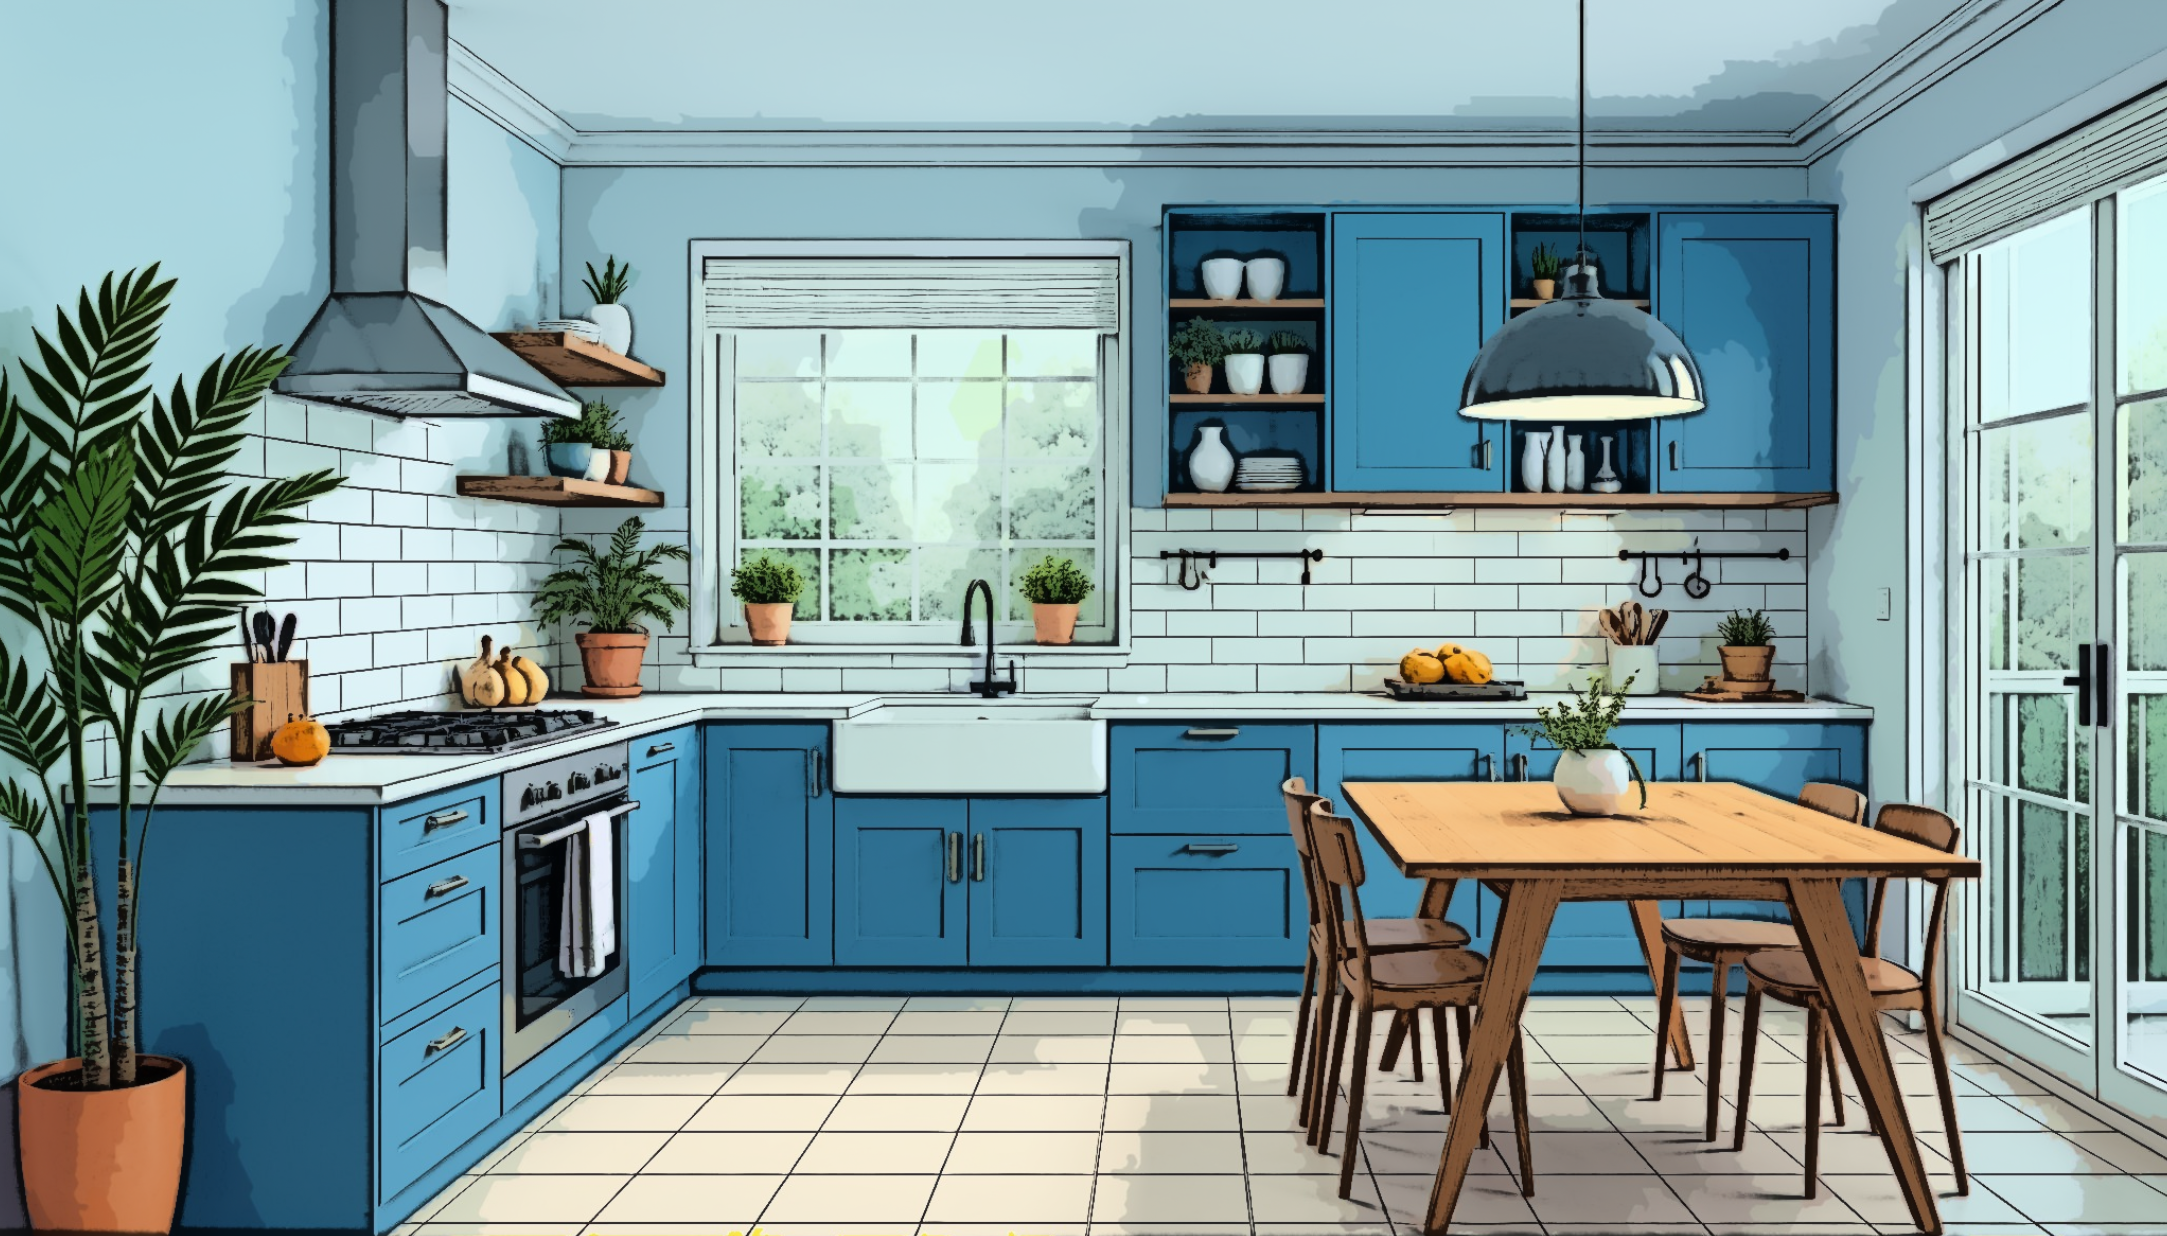
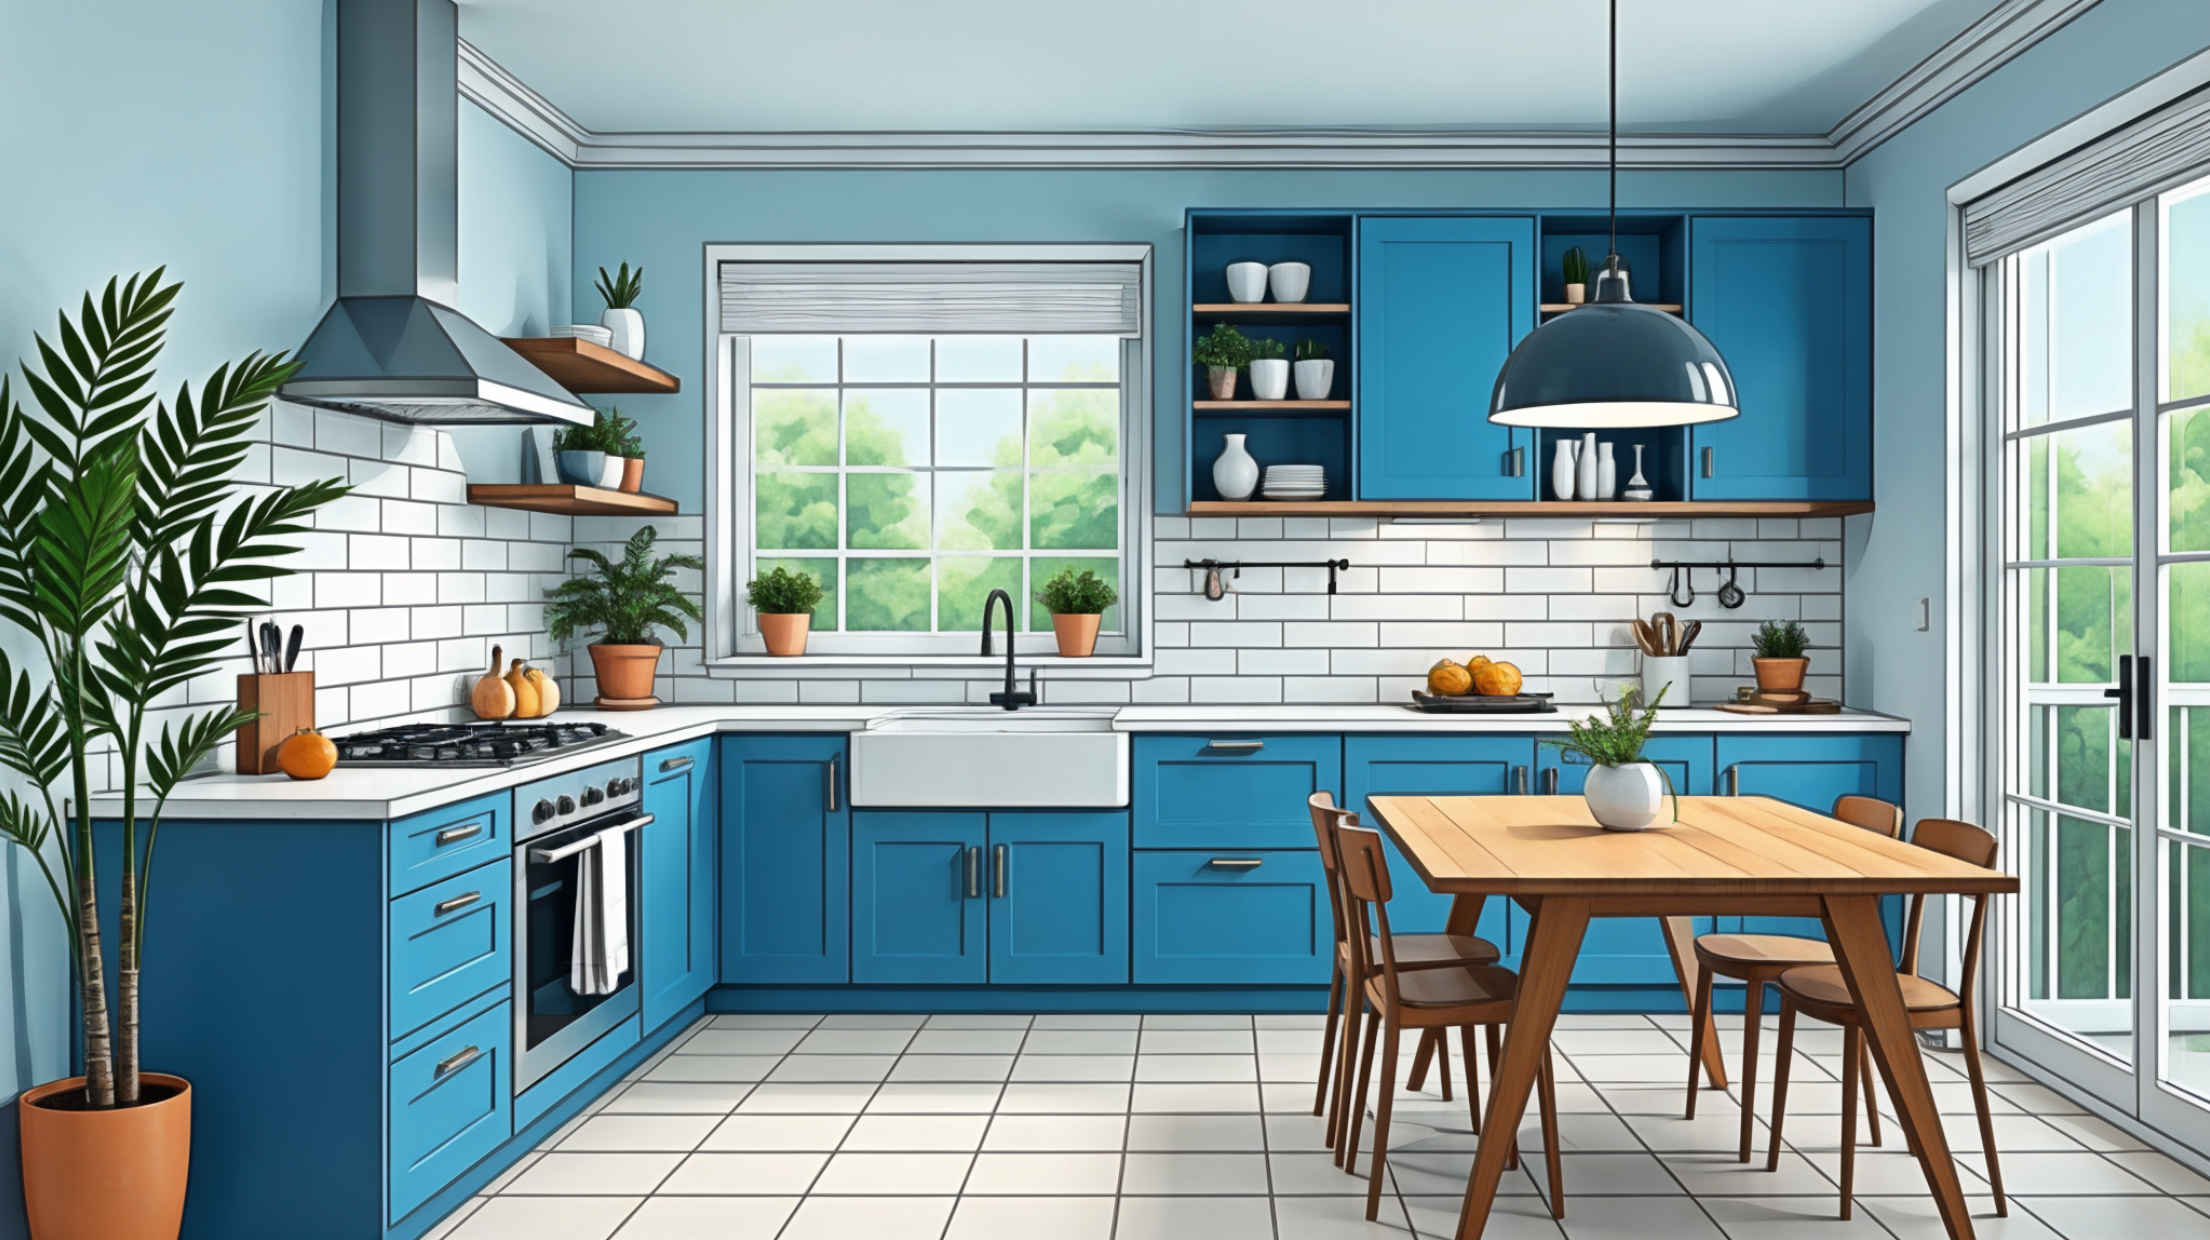
Updated image paths and new image.

diff --git a/src/app/components/breakfast-ideas/breakfast-ideas.component.html b/src/app/components/breakfast-ideas/breakfast-ideas.component.html
@@ -5,7 +5,7 @@
 
 <div class="breakfast-ideas-wrapper" [hidden]="isLoadingOverlayDisplayed() && sidebarService.$hasAvatarLoaded | async">
     <div class="background">
-        <img id="background-image" src="assets/images/kitchen-essentials/kitchen-background.jpg" alt="KITCHEN" (load)="onImageLoad()">
+        <img id="background-image" src="assets/images/kitchen-essentials/blue-kitchen-cartoonish.png" alt="KITCHEN" (load)="onImageLoad()">
         <div class="description-2">
             <p id="title">breakfast ideas.</p>
             <p id="welcome">

diff --git a/src/app/components/dinner-ideas/dinner-ideas.component.html b/src/app/components/dinner-ideas/dinner-ideas.component.html
@@ -5,7 +5,7 @@
 
 <div class="dinner-ideas-wrapper" [hidden]="isLoadingOverlayDisplayed() && sidebarService.$hasAvatarLoaded | async">
     <div class="background">
-        <img id="background-image" src="assets/images/kitchen-essentials/kitchen-background.jpg" alt="KITCHEN" (load)="onImageLoad()">
+        <img id="background-image" src="assets/images/kitchen-essentials/blue-kitchen-cartoonish.png" alt="KITCHEN" (load)="onImageLoad()">
         <div class="description-2">
             <p id="title">dinner ideas.</p>
             <p id="welcome">

diff --git a/src/app/components/lunch-ideas/lunch-ideas.component.html b/src/app/components/lunch-ideas/lunch-ideas.component.html
@@ -5,7 +5,7 @@
 
 <div class="lunch-ideas-wrapper" [hidden]="isLoadingOverlayDisplayed() && sidebarService.$hasAvatarLoaded | async">
     <div class="background">
-        <img id="background-image" src="assets/images/kitchen-essentials/kitchen-background.jpg" alt="KITCHEN" (load)="onImageLoad()">
+        <img id="background-image" src="assets/images/kitchen-essentials/blue-kitchen-cartoonish.png" alt="KITCHEN" (load)="onImageLoad()">
         <div class="description-2">
             <p id="title">lunch ideas.</p>
             <p id="welcome">

diff --git a/src/app/components/snack-ideas/snack-ideas.component.html b/src/app/components/snack-ideas/snack-ideas.component.html
@@ -5,7 +5,7 @@
 
 <div class="snack-ideas-wrapper" [hidden]="isLoadingOverlayDisplayed() && sidebarService.$hasAvatarLoaded | async">
     <div class="background">
-        <img id="background-image" src="assets/images/kitchen-essentials/kitchen-background.jpg" alt="KITCHEN" (load)="onImageLoad()">
+        <img id="background-image" src="assets/images/kitchen-essentials/blue-kitchen-cartoonish.png" alt="KITCHEN" (load)="onImageLoad()">
         <div class="description-2">
             <p id="title">snack ideas.</p>
             <p id="welcome">
